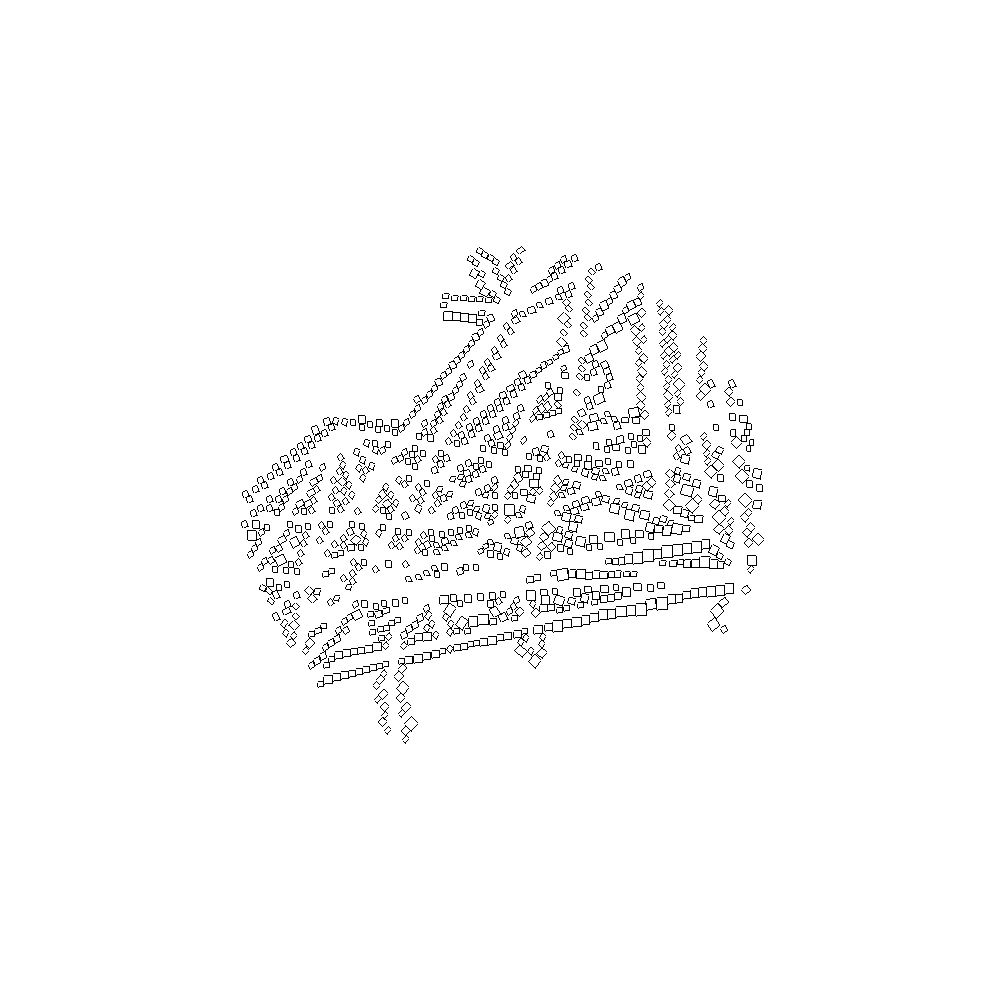
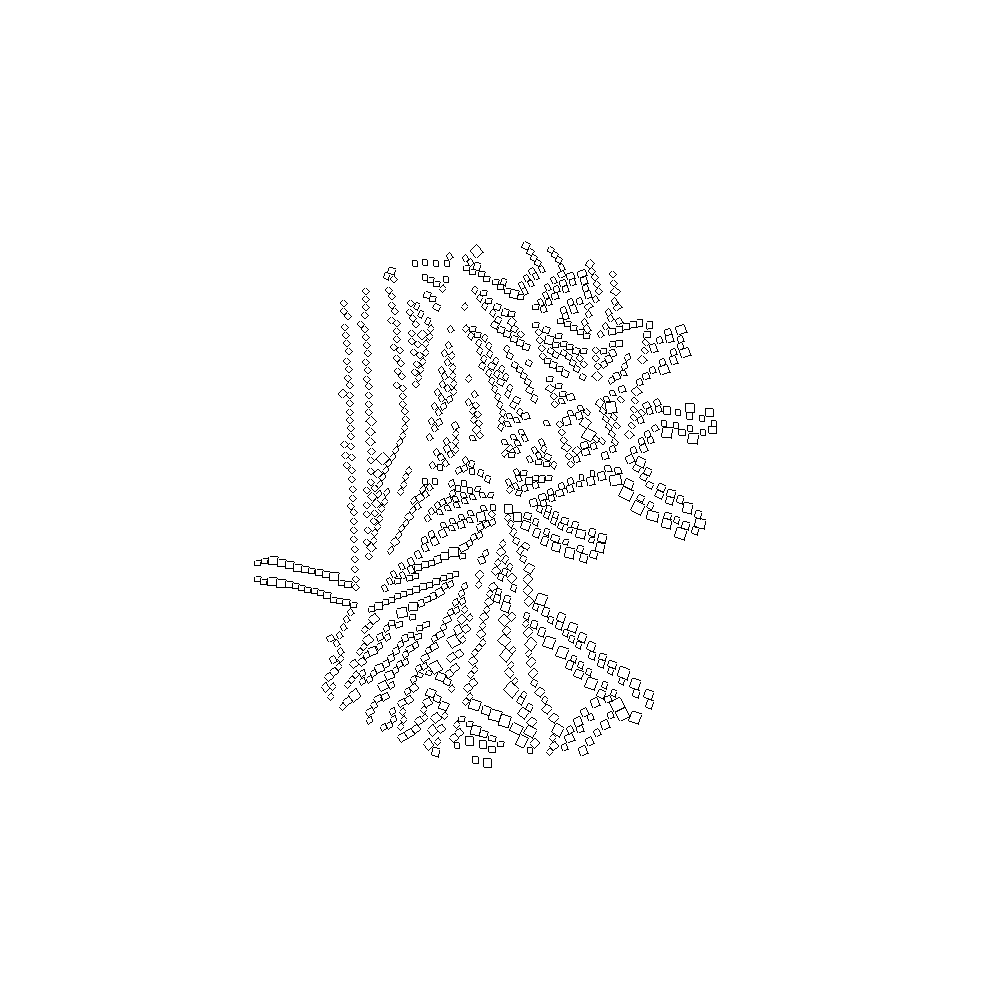
g

Changed region(s): [[0.248, 0.248, 0.744, 0.775], [0.744, 0.465, 0.775, 0.496]]

diff --git a/src/generators/city.rs b/src/generators/city.rs
@@ -337,6 +337,9 @@ pub fn set_up_roads(city: &mut City) -> Vec<(Point, f32)> {
             .collect::<Vec<_>>();
         for (idx, i) in c2.roads.iter().enumerate() {
             'lp: for (idx2, k) in c2.roads.iter().enumerate() {
+                if random_bool(0.8){
+                    continue;
+                }
                 if dead_set.contains(&(idx, idx2)) {
                     continue;
                 }
